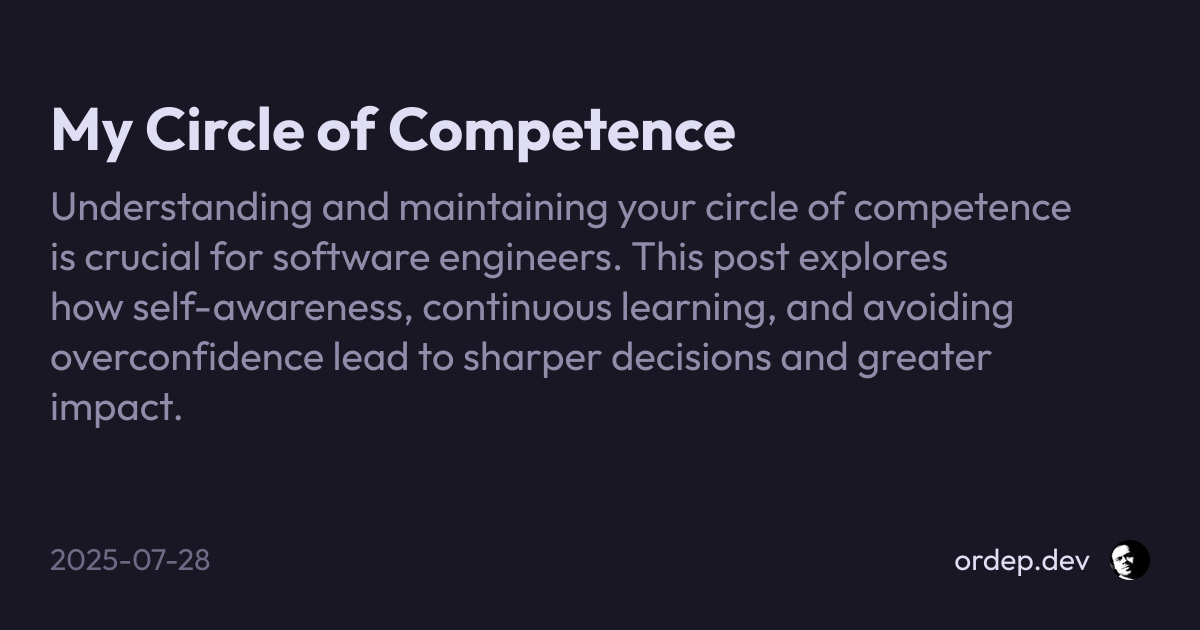
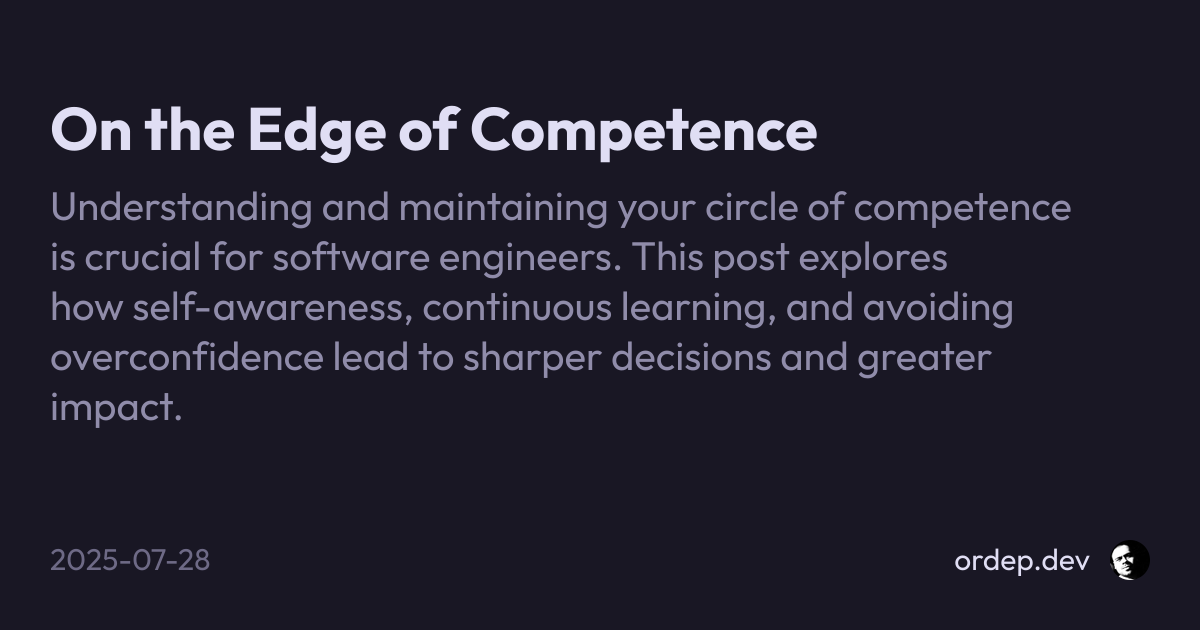
Better title, I guess

Changed region(s): [[0.0308, 0.1508, 0.6783, 0.2714]]

diff --git a/_posts/2025-07-28-circle-of-competence.md b/_posts/2025-07-28-circle-of-competence.md
@@ -1,6 +1,6 @@
 ---
 layout: post
-title: "My Circle of Competence"
+title: "On the Edge of Competence"
 description: "Understanding and maintaining your circle of competence is crucial for software engineers. This post explores how self-awareness, continuous learning, and avoiding overconfidence lead to sharper decisions and greater impact."
 date: 2025-07-28
 ---
